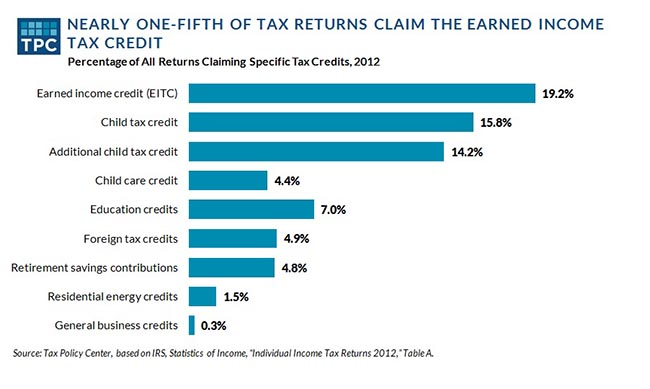
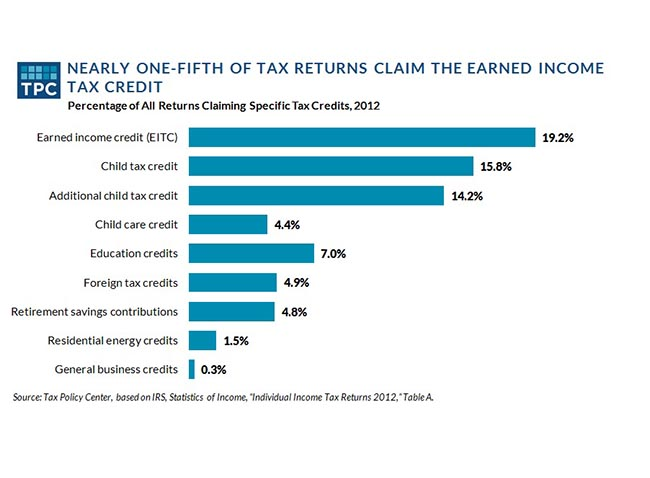
revised chart size issues

Changed region(s): [[0.0, 0.0308, 0.9538, 0.8638], [0.0, 0.8946, 0.6769, 0.9254]]

diff --git a/index.html b/index.html
@@ -119,7 +119,7 @@
 
                                                                                  
 <h5>Filing status sounds kind of neutral, but it’s the origin of marriage penalties and bonuses. Depending on your and your spouse’s individual incomes, you may receive a marriage bonus—pay less tax than you would if you both were single—or pay a marriage penalty—pay more tax than you’d pay if single.</h5>
-                                                                                                                                                                <img class=&quot;chart&quot; src=&quot;images/Chart%202.jpg&quot;/>
+                                                                                                                                                                <div class=&quot;chart&quot;><img src=&quot;images/Chart%202.jpg&quot;/></div>
   
 <h5>Marriage bonuses were born in 1948, when Congress created joint filing—before that, everyone had to file an individual return. For the next two decades, marriage could only reduce your taxes. But in the 1960s, Vivien Kellems formed a group called <i>&lt;a href=&quot;https://books.google.com/books?id=BUonMfhHPDIC&pg=PA47&lpg=PA47&dq=kellem+war+widows+of+america+vivian&source=bl&ots=BJyPKoJSP7&sig=4dCyXqUlJnLVvvPySvIsNCq_7_0&hl=en&sa=X&ei=fSn5VPGfJIHsgwSyioC4AQ&ved=0CB4Q6AEwAA#v=onepage&q=kellem%20war%20widows%20of%20america%20vivian&f=false&quot; target=&quot;_blank=&quot;&gt;War Widows of America&lt;/a&gt;</i> to protest how unfair the income tax was to singles. (She wasn’t a widow of any sort, but it was good marketing.) In 1969, Congress addressed this perceived inequity by cutting taxes on singles and thus creating marriage penalties. Since then, the pendulum has swung back and forth. Bonuses are now more prevalent, but some couples suffer penalties, most often when spouses have similar incomes.</h5>
                                                                                  
@@ -151,7 +151,7 @@
 <h5>Unlike the CTC, the credit is nonrefundable—it can only offset taxes you owe. As a result, most low-income families get little or no benefit from it. For example, in 2015, a two-parent family with two children and an adjusted gross income (AGI) of $28,600 or less owes no income tax. For them, the child care credit is a good news/bad news story. The good news: if they spent $3,000 on qualifying child care, they theoretically qualify for an $840 credit. The bad news: because they have no income tax liability, the credit is worthless. </h5>   
                                                                                                                         
 <h5>• Low-income workers may claim the &lt;a href=&quot;http://www.taxpolicycenter.org/briefing-book/key-elements/family/eitc.cfm&quot;  target=&quot;_blank=&quot;&gt;earned income tax credit&lt;/a&gt; <b>(EITC)</b>. Eligibility depends on your income, marital status, and how many children you have. The credit is smallest for childless workers—no more than $496 in 2014—but can be as large as $6,242 for a married couple with three or more children. And the credit is fully refundable, so it’s especially valuable to low-income households. Indeed, the &lt;a href=&quot;https://www.census.gov/content/dam/Census/library/publications/2014/demo/p60-251.pdf&quot;  target=&quot;_blank=&quot;&gt;Census Bureau estimates&lt;/a&gt; that, in 2013, the EITC and the refundable portion of the CTC reduced the overall poverty rate by 3 percentage points and by more than 6 points among children. (We’re talking about the “supplemental poverty measure” because the standard measure &lt;a href=&quot;http://taxvox.taxpolicycenter.org/2011/11/07/news-flash-antipoverty-programs-can-reduce-poverty/&quot;  target=&quot;_blank=&quot;&gt;doesn’t take many antipoverty programs into account&lt;/a&gt;, like the EITC. Go figure!)</h5>
-                                                                           <img class=&quot;chart&quot; src=&quot;images/Chart%209.jpg&quot;/>
+                                                                           <div class=&quot;chart&quot;><img src=&quot;images/Chart%209.jpg&quot;/></div>
                                                                                                          
                                                                                                          
 <h5>Claiming the EITC is complex, which is one reason most poor families get help filing their taxes. Determining eligibility for EITC requires filling out a three-page worksheet (following two pages of instructions) and at least one additional worksheet to determine the amount of the credit (unless you want the IRS to calculate it for you). In part because of its complexity, the EITC has significant problems with errors and fraud. The definition of a qualifying child is complex: it depends on with whom the child lives during the year, who claims the child as a dependent on tax returns, and who provides support for the child. 
@@ -168,7 +168,7 @@
         <li>
           <a href="#" data-title="Your income" data-description="<h5>How much money did you make in 2014 and how? Here are some of the most common income items.</h5>
 <h5>• <b>Wage and salary income:</b> If you got a W-2 from your employer, you’ve got wages to report. You’re in good company—wages and salary are by far the largest source of income. In 2012, 83 percent of all federal income tax returns reported wages and salary income, which made up just over two-thirds of total AGI. (This and income from self-employment make up the “earned income” that is the basis for the EITC.)
-                                                                                                                                                  <img class=&quot;chart&quot; src=&quot;images/Chart%203.jpg&quot;/>
+                                                                                                                                                  <div class=&quot;chart&quot;><img src=&quot;images/Chart%203.jpg&quot;/></div>
 
                                                                  
 </h5>
@@ -203,7 +203,7 @@
           <a href="#" data-title="Adjusted gross income" data-description="<h5>Your AGI is the sum of your income from all sources minus “above-the-line” deductions—specific reductions for particular expenses. For example, within limits, you may deduct interest you paid on student loans, moving expenses to take a new job, contributions to an individual retirement account (IRA) or a health savings account, and, if you’re a teacher, money you spent on classroom supplies. </h5> 
 <h5>AGI is widely used throughout the tax code to determine whether you are eligible for tax preferences or if you have to pay additional tax. Because AGI excludes income from particular sources, eligibility for some tax preferences depends on a separately defined “modified AGI,” which adds in some nontaxable income, such as tax-exempt interest.</h5>
                                                                            
-                                                                                                                                                            <img class=&quot;chart&quot; src=&quot;images/Chart%204.jpg&quot;/>
+                                                                                                                                                            <div class=&quot;chart&quot;><img src=&quot;images/Chart%204.jpg&quot;/></div>
 
 ">
             <img src="images/thumbs/04.jpg" alt="img01" />
@@ -216,7 +216,7 @@
 " data-description="
 <h5>Rather than claiming the standard deduction, you have the option to itemize. Only about a third of taxpayers choose this option, listing amounts they spent on items like medical expenses, state and local taxes, mortgage interest, and charitable donations. The standard deduction was intended as a simplification—most people don’t have to keep track of their charitable contributions and other potential deductions. A touted simplification of the Tax Reform Act of 1986 was the big increase in the standard deduction, which vastly reduced the number of itemizers (and also removed most families below the poverty level from the tax rolls). But a lot of people think it’s unfair that they can’t deduct their charitable contributions or mortgage interest (never mind that the standard deduction is a better deal). For that reason, many tax reform proposals would dispense with itemization altogether.</h5>
 
-                                                                                                     <img class=&quot;chart&quot; src=&quot;images/Chart%205.jpg&quot;/>
+                                                                                                     <div class=&quot;chart&quot;><img src=&quot;images/Chart%205.jpg&quot;/></div>
 
                     
 <h5>There’s another wrinkle that affects only people with high income: the &lt;a href=&quot;http://www.taxpolicycenter.org/press/press-resources-pease.cfm&quot;  target=&quot;_blank=&quot;&gt;limitation on itemized deductions&lt;/a&gt;, or “Pease,” as tax wonks call it. (Donald Pease was the Ohio congressman who proposed the idea.) This provision reduces your itemized deductions by 3 percent of your AGI over a threshold amount: $305,050 for joint filers, $279,650 for heads of household, $254,200 for singles, and $152,525 for married couples filing separately. Cold comfort: you can’t lose more than 80 percent of what you’ve itemized. In 2011, 20 million taxpayers lost some of their itemized deductions to Pease, although that number is much lower in 2014 because &lt;a href=&quot;http://www.taxpolicycenter.org/UploadedPDF/412730-Tax-Provisions-in-ATRA.pdf&quot;  target=&quot;_blank=&quot;&gt;the American Taxpayer Relief Act of 2012&lt;/a&gt; significantly raised the income levels at with deductions phase out.</h5><br>
@@ -232,7 +232,7 @@ You can itemize and deduct certain taxes you pay to state and local governments.
 <h5>In 2012, 44.5 million taxpayers itemized a total of $483 billion in taxes. This deduction is one of the tax preferences taken away by the AMT and is a major reason why taxpayers in high-tax states are more than twice as likely to be on the AMT as those in low-tax states: &lt;a href=&quot;http://www.taxpolicycenter.org/numbers/displayatab.cfm?DocID=3969&quot;  target=&quot;_blank=&quot;&gt;4.5 percent vs. 1.9 percent&lt;/a&gt;.
 </h5><br>
 
-                                                                                 <img class=&quot;chart&quot; src=&quot;images/Chart%206.jpg&quot;/>
+                                                                                 <div class=&quot;chart&quot;><img src=&quot;images/Chart%206.jpg&quot;/></div>
 
   
 <h5><b>Mortgage interest deduction</b><br>
@@ -285,7 +285,7 @@ There are other expenses you can deduct, but often only if they exceed specified
 
 <h5>Two sets of tax rates apply, depending on the source of income. For most income, you pay ordinary rates that range from 10 percent on the first $9,075 to 39.6 percent on taxable income over $406,750 if you’re single. Tax brackets are bigger for heads of household—the 10 percent bracket ends at $12,950—and bigger yet for joint filers. </h5>
 
-                                                                                                                                                <img class=&quot;chart&quot; src=&quot;images/Chart%2010.jpg&quot;/>
+                                                                                                                                                <div class=&quot;chart&quot;><img src=&quot;images/Chart%2010.jpg&quot;/></div>
                                                                      
 <h5>Long-term capital gains and qualified dividends are taxed at lower rates. The rate is 0 if your tax rate on ordinary income is 15 percent or lower—your gains and dividends go untaxed. At the other extreme, if your income is high enough to put you in the 39.6 percent tax bracket, you pay a 20 percent tax. If you owe tax on gains or dividends, figuring out how much tax you owe is MUCH more complicated: you have to use a complicated 27-line worksheet (or an even more complicated 45-line worksheet) to calculate your tax bill.</h5>
 
@@ -299,13 +299,13 @@ There are other expenses you can deduct, but often only if they exceed specified
 
         <li>
           <a href="#" data-title="Alternative minimum tax" data-description="<h5>Back in 1969, Treasury Secretary Joseph Barr reported to Congress that 155 high-income tax units—people making more than $200,000 a year—had paid no income tax in 1967. This caused a firestorm of protest, to which Congress responded by creating the first minimum tax—basically, an extra tax that high-income households had to pay if they’d taken so much advantage of the tax breaks that Congress created that they were paying an embarrassingly low amount of tax.</h5>
-                                                                                                                                                            <img class=&quot;chart&quot; src=&quot;images/Chart%207.jpg&quot;/>
+                                                                                                                                                            <div class=&quot;chart&quot;><img src=&quot;images/Chart%207.jpg&quot;/></div>
 
 <h5>The minimum tax morphed and mutated over time to become the dreaded &lt;a href=&quot;http://www.taxpolicycenter.org/taxtopics/AMT_tables_2013.cfm&quot;  target=&quot;_blank=&quot;&gt;alternative minimum tax&lt;/a&gt; (&lt;a href=&quot;http://www.taxpolicycenter.org/taxtopics/quick_amt.cfm#6&quot;  target=&quot;_blank=&quot;&gt;AMT&lt;/a&gt;)—the epitome of pointless complexity in the tax code. Basically, after you think you’re done with your tax calculations, you have to add a bunch of other so-called “preference items” to income and calculate tax again under the AMT rules. If that tax bill is higher than your regular tax, you pay the difference as AMT. Some people first find out that they owe AMT when the IRS writes and tells them that they owe extra tax.</h5>
 
 <h5>Although it was supposed to ensure that high earners paid at least some income tax, it does a poor job of it: in any given year, roughly 1,000 tax units with income over $1 million pay no US income tax. Instead of egregious tax shelters, the things most likely to throw you on the AMT are moderately high income ($100,000 to $500,000), lots of kids, and high state and local taxes. (Personal exemptions and the deduction for state and local taxes are not allowed under the AMT.)</h5>
                                                                              
-                                                                               <img class=&quot;chart&quot; src=&quot;images/Chart%208.jpg&quot;/>
+                                                                               <div class=&quot;chart&quot;><img src=&quot;images/Chart%208.jpg&quot;/></div>
 
 
 <h5>Congress has periodically tweaked the parameters so that not too many people will write and complain. Only 2.9 percent of all tax filers &lt;a href=&quot;http://www.taxpolicycenter.org/numbers/displayatab.cfm?DocID=3969&quot;  target=&quot;_blank=&quot;&gt;will owe the added tax &lt;/a&gt;in 2014. But the AMT can be a big hit if you owe it—the additional levy will boost tax bills this year by &lt;a href=&quot;http://www.taxpolicycenter.org/numbers/displayatab.cfm?DocID=3970&quot;  target=&quot;_blank=&quot;&gt;an average of more than $6,500 for&lt;/a&gt; affected taxpayers. </h5>

diff --git a/css/style.css b/css/style.css
@@ -26,13 +26,15 @@ html {
 }
 .chart{
     max-width: 650px;
-    min-height: 200px;
+    height: 478px;
     width:100%;
 
     margin-left: auto;
     margin-right: auto;
-    display: block;
-    
+    display: block;   
+}
+.chart img{
+ width: 100%;   
 }
 #intro {
      background-image: url("../images/1040.jpg");
